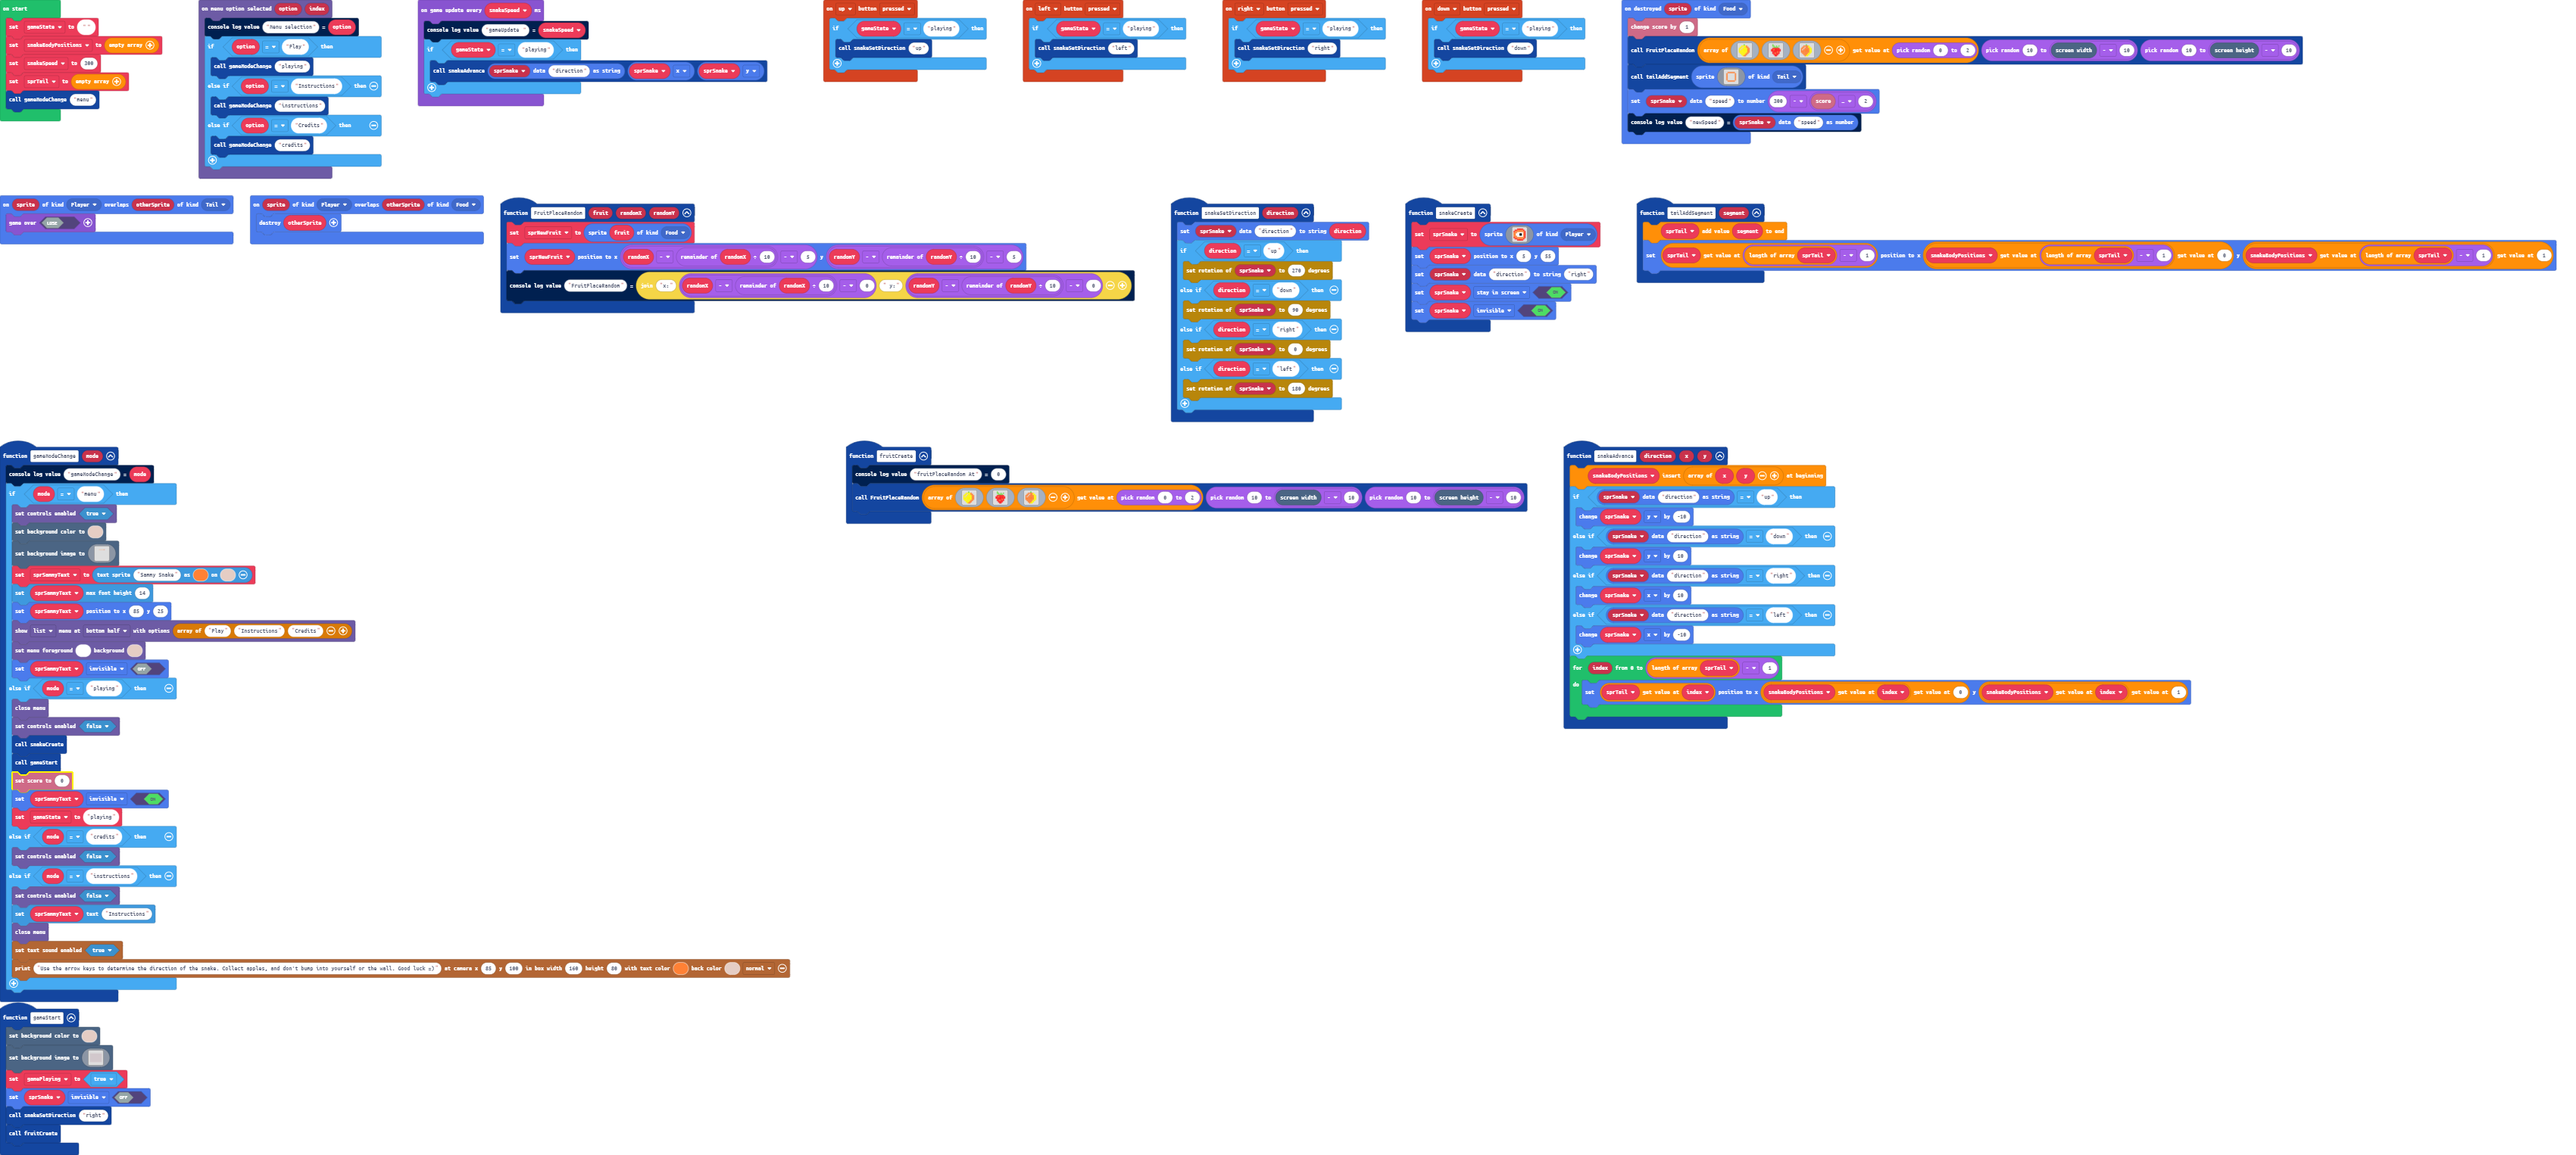
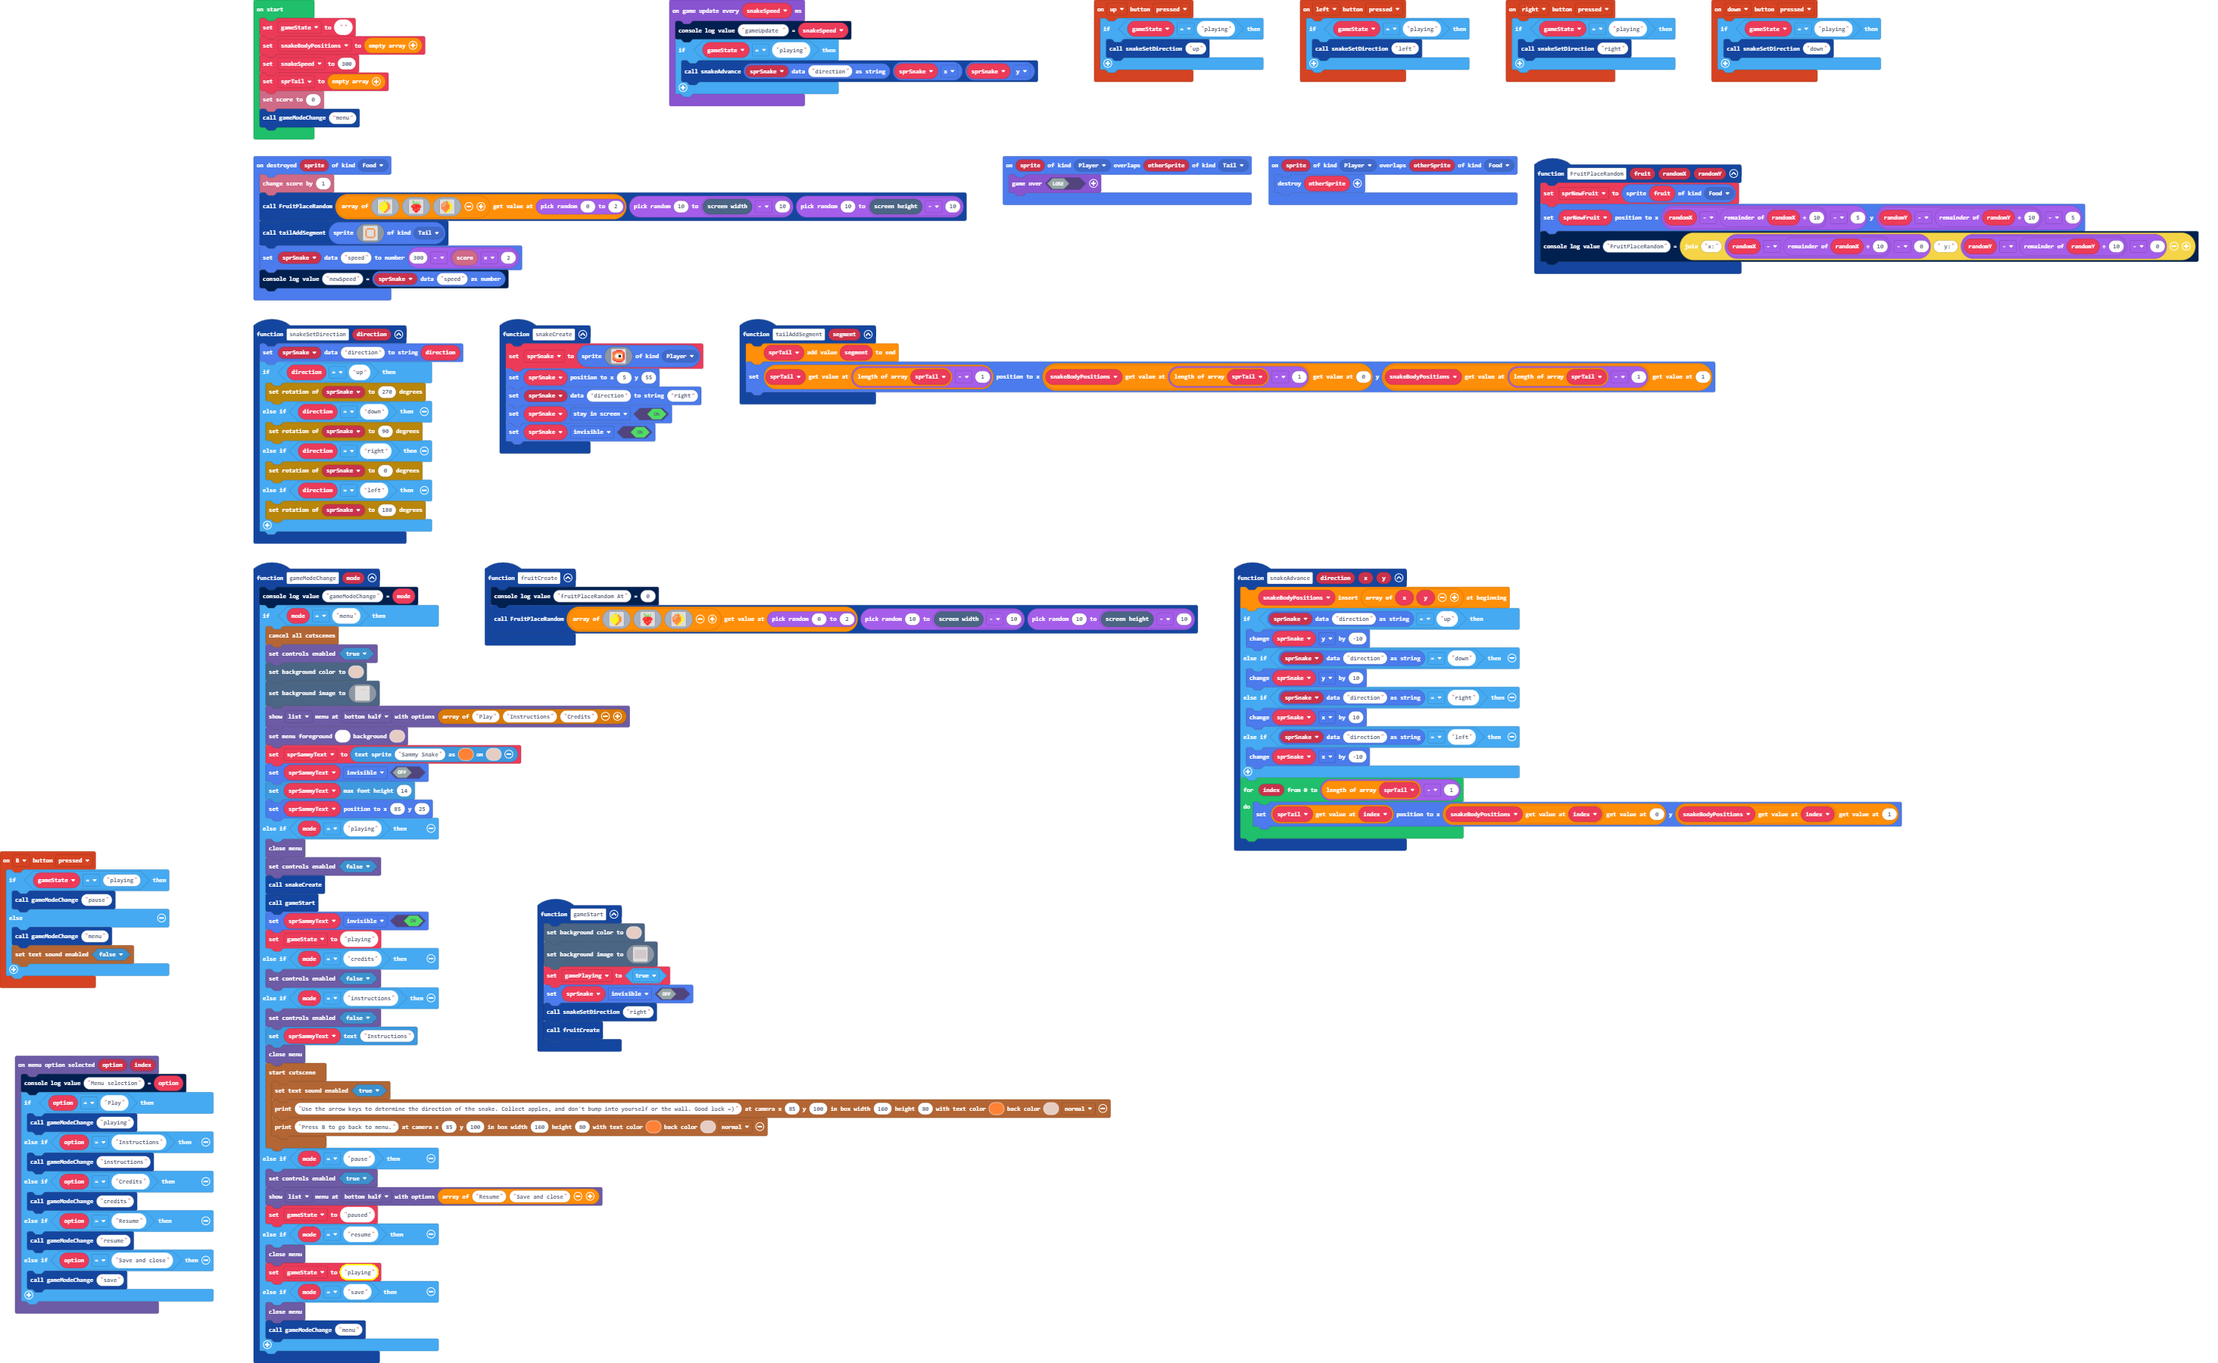
Made game pausing, and Instructions

Changed region(s): [[0.0, 0.0, 0.9942, 1.0]]

diff --git a/main.ts b/main.ts
@@ -23,6 +23,14 @@ controller.up.onEvent(ControllerButtonEvent.Pressed, function () {
         snakeSetDirection("up")
     }
 })
+controller.B.onEvent(ControllerButtonEvent.Pressed, function () {
+    if (gameState == "playing") {
+        gameModeChange("pause")
+    } else {
+        gameModeChange("menu")
+        story.setSoundEnabled(false)
+    }
+})
 sprites.onDestroyed(SpriteKind.Food, function (sprite) {
     info.changeScoreBy(1)
     FruitPlaceRandom([assets.image`fruit-lemon`, assets.image`fruit-strawberry`, assets.image`fruit-orange`][randint(0, 2)], randint(10, scene.screenWidth() - 10), randint(10, scene.screenHeight() - 10))
@@ -52,6 +60,7 @@ function tailAddSegment (segment: Sprite) {
 function gameModeChange (mode: string) {
     console.logValue("gameModeChange", mode)
     if (mode == "menu") {
+        story.cancelAllCutscenes()
         blockMenu.setControlsEnabled(true)
         scene.setBackgroundColor(13)
         scene.setBackgroundImage(img`
@@ -176,12 +185,12 @@ function gameModeChange (mode: string) {
             ................................................................................................................................................................
             ................................................................................................................................................................
             `)
-        sprSammyText = textsprite.create("Sammy Snake", 13, 4)
-        sprSammyText.setMaxFontHeight(14)
-        sprSammyText.setPosition(85, 25)
         blockMenu.showMenu(["Play", "Instructions", "Credits"], MenuStyle.List, MenuLocation.BottomHalf)
         blockMenu.setColors(1, 13)
+        sprSammyText = textsprite.create("Sammy Snake", 13, 4)
         sprSammyText.setFlag(SpriteFlag.Invisible, false)
+        sprSammyText.setMaxFontHeight(14)
+        sprSammyText.setPosition(85, 25)
     } else if (mode == "playing") {
         blockMenu.closeMenu()
         blockMenu.setControlsEnabled(false)
@@ -196,8 +205,21 @@ function gameModeChange (mode: string) {
         blockMenu.setControlsEnabled(false)
         sprSammyText.setText("Instructions")
         blockMenu.closeMenu()
-        story.setSoundEnabled(true)
-        story.printDialog("Use the arrow keys to determine the direction of the snake. Collect apples, and don't bump into yourself or the wall. Good luck =)", 85, 100, 80, 160, 4, 13, story.TextSpeed.Normal)
+        story.startCutscene(function () {
+            story.setSoundEnabled(true)
+            story.printDialog("Use the arrow keys to determine the direction of the snake. Collect apples, and don't bump into yourself or the wall. Good luck =)", 85, 100, 80, 160, 4, 13, story.TextSpeed.Normal)
+            story.printDialog("Press B to go back to menu.", 85, 100, 80, 160, 4, 13, story.TextSpeed.Normal)
+        })
+    } else if (mode == "pause") {
+        blockMenu.setControlsEnabled(true)
+        blockMenu.showMenu(["Resume", "Save and close"], MenuStyle.List, MenuLocation.BottomHalf)
+        gameState = "paused"
+    } else if (mode == "resume") {
+        blockMenu.closeMenu()
+        gameState = "playing"
+    } else if (mode == "save") {
+        blockMenu.closeMenu()
+        gameModeChange("menu")
     }
 }
 controller.right.onEvent(ControllerButtonEvent.Pressed, function () {
@@ -248,6 +270,10 @@ blockMenu.onMenuOptionSelected(function (option, index) {
         gameModeChange("instructions")
     } else if (option == "Credits") {
         gameModeChange("credits")
+    } else if (option == "Resume") {
+        gameModeChange("resume")
+    } else if (option == "Save and close") {
+        gameModeChange("save")
     }
 })
 let gamePlaying = false
